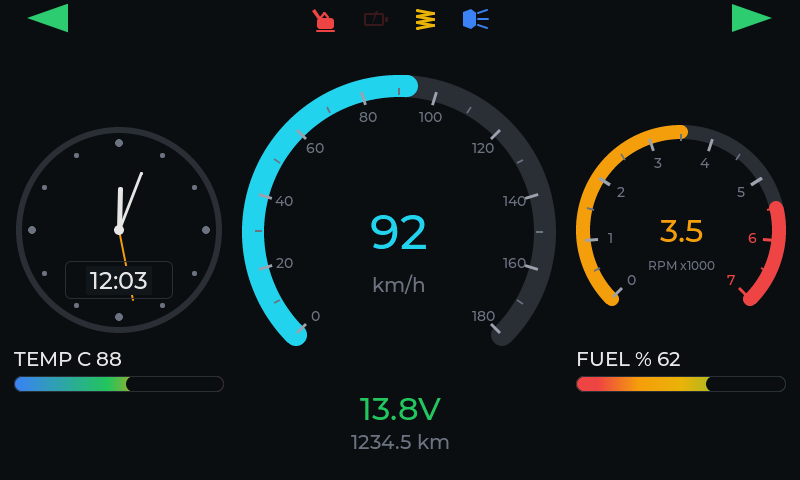
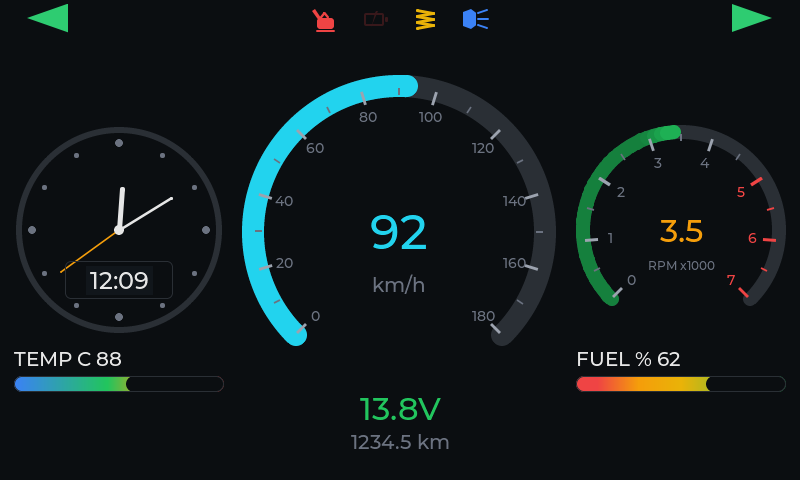
feat(ui): сделать градиент тахометра от тёмно-зелёного

diff --git a/arduino/t3-dash/ui_lvgl.cpp b/arduino/t3-dash/ui_lvgl.cpp
@@ -17,6 +17,7 @@ constexpr uint32_t COL_CYAN = 0x22D3EE;
 constexpr uint32_t COL_ORANGE = 0xF59E0B;
 constexpr uint32_t COL_RED = 0xEF4444;
 constexpr uint32_t COL_GREEN = 0x22C55E;
+constexpr uint32_t COL_DARK_GREEN = 0x15803D;
 constexpr uint32_t COL_YELLOW = 0xEAB308;
 constexpr uint32_t COL_BLUE = 0x3B82F6;
 constexpr uint32_t COL_TICK = 0x9CA3AF;
@@ -35,6 +36,9 @@ struct Gauge {
   lv_obj_t* value = nullptr;
   int32_t max = 0;
   bool div1000 = false;
+  int segmentCount = 0;
+  float segmentStep = 0.0f;
+  lv_obj_t* segments[80] = {};
 };
 
 Gauge g_speed;
@@ -123,11 +127,52 @@ void addTick(lv_obj_t* parent, int size, int cx, int cy, float angleDeg, int rIn
   lv_obj_clear_flag(line, LV_OBJ_FLAG_CLICKABLE);
 }
 
+uint32_t lerpColor(uint32_t from, uint32_t to, float t) {
+  if (t < 0.0f) {
+    t = 0.0f;
+  }
+  if (t > 1.0f) {
+    t = 1.0f;
+  }
+  const int r1 = (from >> 16) & 0xFF;
+  const int g1 = (from >> 8) & 0xFF;
+  const int b1 = from & 0xFF;
+  const int r2 = (to >> 16) & 0xFF;
+  const int g2 = (to >> 8) & 0xFF;
+  const int b2 = to & 0xFF;
+  const int r = r1 + (int)((r2 - r1) * t);
+  const int g = g1 + (int)((g2 - g1) * t);
+  const int b = b1 + (int)((b2 - b1) * t);
+  return (uint32_t)((r << 16) | (g << 8) | b);
+}
+
+uint32_t rpmColor(float value) {
+  if (value <= 3000.0f) {
+    return COL_DARK_GREEN;
+  }
+  if (value >= 5000.0f) {
+    return COL_RED;
+  }
+  if (value < 3500.0f) {
+    return lerpColor(COL_DARK_GREEN, COL_GREEN, (value - 3000.0f) / 500.0f);
+  }
+  if (value < 4000.0f) {
+    return lerpColor(COL_GREEN, COL_YELLOW, (value - 3500.0f) / 500.0f);
+  }
+  if (value < 4500.0f) {
+    return lerpColor(COL_YELLOW, COL_ORANGE, (value - 4000.0f) / 500.0f);
+  }
+  return lerpColor(COL_ORANGE, COL_RED, (value - 4500.0f) / 500.0f);
+}
+
 Gauge createGauge(lv_obj_t* parent, int x, int y, int size, const char* title,
                   const char* unit, int32_t max, uint32_t accent, float redlineFrac,
                   float tickStep, float labelStep, bool div1000, int arcWidth,
                   const lv_font_t* valueFont, const lv_font_t* titleFont,
-                  const lv_font_t* unitFont) {
+                  const lv_font_t* unitFont, bool segmentedFill = false,
+                  float segStart = 0.0f, float segEnd = 0.0f, uint32_t segFrom = 0,
+                  uint32_t segTo = 0, float segStep = 0.0f,
+                  uint32_t (*colorFn)(float) = nullptr) {
   lv_obj_t* box = lv_obj_create(parent);
   lv_obj_remove_style_all(box);
   lv_obj_set_size(box, size, size);
@@ -135,6 +180,10 @@ Gauge createGauge(lv_obj_t* parent, int x, int y, int size, const char* title,
   lv_obj_set_style_bg_opa(box, LV_OPA_TRANSP, 0);
   lv_obj_clear_flag(box, LV_OBJ_FLAG_SCROLLABLE);
   lv_obj_clear_flag(box, LV_OBJ_FLAG_CLICKABLE);
+
+  Gauge g;
+  g.max = max;
+  g.div1000 = div1000;
 
   lv_obj_t* arc = lv_arc_create(box);
   lv_obj_set_size(arc, size, size);
@@ -149,8 +198,13 @@ Gauge createGauge(lv_obj_t* parent, int x, int y, int size, const char* title,
   lv_obj_set_style_arc_rounded(arc, true, LV_PART_INDICATOR);
   lv_obj_set_style_opa(arc, LV_OPA_TRANSP, LV_PART_KNOB);
   lv_obj_clear_flag(arc, LV_OBJ_FLAG_CLICKABLE);
+  g.arc = arc;
 
-  if (redlineFrac > 0.0f) {
+  if (segmentedFill) {
+    lv_obj_set_style_arc_opa(arc, LV_OPA_TRANSP, LV_PART_INDICATOR);
+  }
+
+  if (!segmentedFill && redlineFrac > 0.0f) {
     lv_obj_t* red = lv_arc_create(box);
     lv_obj_set_size(red, size, size);
     lv_obj_center(red);
@@ -162,6 +216,40 @@ Gauge createGauge(lv_obj_t* parent, int x, int y, int size, const char* title,
     lv_obj_set_style_arc_opa(red, LV_OPA_TRANSP, LV_PART_INDICATOR);
     lv_obj_set_style_opa(red, LV_OPA_TRANSP, LV_PART_KNOB);
     lv_obj_clear_flag(red, LV_OBJ_FLAG_CLICKABLE);
+  }
+
+  if (segmentedFill && segStep > 0.0f) {
+    const int total = (int)((float)max / segStep + 0.5f);
+    for (int i = 0; i < total && g.segmentCount < 80; ++i) {
+      const float startValue = i * segStep;
+      const float endValue = fminf((i + 1) * segStep, (float)max);
+      const float startAngle = 135.0f + 270.0f * (startValue / (float)max);
+      const float endAngle = 135.0f + 270.0f * (endValue / (float)max);
+      const float midValue = (startValue + endValue) * 0.5f;
+
+      uint32_t color = segTo;
+      if (colorFn != nullptr) {
+        color = colorFn(midValue);
+      } else if (midValue <= segStart) {
+        color = segFrom;
+      } else if (midValue < segEnd) {
+        color = lerpColor(segFrom, segTo, (midValue - segStart) / (segEnd - segStart));
+      }
+
+      lv_obj_t* segment = lv_arc_create(box);
+      lv_obj_set_size(segment, size, size);
+      lv_obj_center(segment);
+      lv_arc_set_bg_angles(segment, (int32_t)startAngle, (int32_t)endAngle);
+      lv_obj_set_style_arc_width(segment, arcWidth, LV_PART_MAIN);
+      lv_obj_set_style_arc_color(segment, lv_color_hex(color), LV_PART_MAIN);
+      lv_obj_set_style_arc_rounded(segment, true, LV_PART_MAIN);
+      lv_obj_set_style_arc_opa(segment, LV_OPA_TRANSP, LV_PART_INDICATOR);
+      lv_obj_set_style_opa(segment, LV_OPA_TRANSP, LV_PART_KNOB);
+      lv_obj_clear_flag(segment, LV_OBJ_FLAG_CLICKABLE);
+      lv_obj_add_flag(segment, LV_OBJ_FLAG_HIDDEN);
+      g.segments[g.segmentCount++] = segment;
+    }
+    g.segmentStep = segStep;
   }
 
   const int tickCount = (int)((float)max / tickStep + 0.5f);
@@ -210,11 +298,7 @@ Gauge createGauge(lv_obj_t* parent, int x, int y, int size, const char* title,
     lv_obj_align(unitLabel, LV_ALIGN_CENTER, 0, (int)(size * 0.17f));
   }
 
-  Gauge g;
-  g.arc = arc;
   g.value = valueLabel;
-  g.max = max;
-  g.div1000 = div1000;
   return g;
 }
 
@@ -325,9 +409,29 @@ void updateGauge(Gauge& g, float value, bool valid, uint32_t accent) {
   if (arcValue > g.max) {
     arcValue = g.max;
   }
-  lv_arc_set_value(g.arc, arcValue);
-  lv_obj_set_style_arc_color(g.arc, lv_color_hex(valid ? accent : COL_TRACK),
-                             LV_PART_INDICATOR);
+  if (g.segmentCount > 0) {
+    int visible = 0;
+    if (valid && g.segmentStep > 0.0f) {
+      visible = (int)(value / g.segmentStep);
+    }
+    if (visible < 0) {
+      visible = 0;
+    }
+    if (visible > g.segmentCount) {
+      visible = g.segmentCount;
+    }
+    for (int i = 0; i < g.segmentCount; ++i) {
+      if (i < visible) {
+        lv_obj_clear_flag(g.segments[i], LV_OBJ_FLAG_HIDDEN);
+      } else {
+        lv_obj_add_flag(g.segments[i], LV_OBJ_FLAG_HIDDEN);
+      }
+    }
+  } else {
+    lv_arc_set_value(g.arc, arcValue);
+    lv_obj_set_style_arc_color(g.arc, lv_color_hex(valid ? accent : COL_TRACK),
+                               LV_PART_INDICATOR);
+  }
 
   char text[24];
   if (!valid) {
@@ -675,9 +779,10 @@ void init() {
                         &lv_font_montserrat_24, &lv_font_montserrat_20);
 
   g_rpm = createGauge(screen, 576, 125, SIDE_SIZE, "", "RPM x1000", 7000, COL_ORANGE,
-                      5500.0f / 7000.0f, 500.0f, 1000.0f, true, 14,
+                      5000.0f / 7000.0f, 500.0f, 1000.0f, true, 14,
                       &lv_font_montserrat_32, &lv_font_montserrat_12,
-                      &lv_font_montserrat_12);
+                      &lv_font_montserrat_12, true, 3000.0f, 5000.0f, COL_DARK_GREEN,
+                      COL_RED, 100.0f, rpmColor);
 
   g_voltage = makeLabel(screen, "--.-V", &lv_font_montserrat_32, COL_GREEN);
   lv_obj_align(g_voltage, LV_ALIGN_CENTER, 0, 168);

diff --git a/src/ui/lvgl/ui_lvgl.cpp b/src/ui/lvgl/ui_lvgl.cpp
@@ -17,6 +17,7 @@ constexpr uint32_t COL_CYAN = 0x22D3EE;
 constexpr uint32_t COL_ORANGE = 0xF59E0B;
 constexpr uint32_t COL_RED = 0xEF4444;
 constexpr uint32_t COL_GREEN = 0x22C55E;
+constexpr uint32_t COL_DARK_GREEN = 0x15803D;
 constexpr uint32_t COL_YELLOW = 0xEAB308;
 constexpr uint32_t COL_BLUE = 0x3B82F6;
 constexpr uint32_t COL_TICK = 0x9CA3AF;
@@ -35,6 +36,9 @@ struct Gauge {
   lv_obj_t* value = nullptr;
   int32_t max = 0;
   bool div1000 = false;
+  int segmentCount = 0;
+  float segmentStep = 0.0f;
+  lv_obj_t* segments[80] = {};
 };
 
 Gauge g_speed;
@@ -123,11 +127,52 @@ void addTick(lv_obj_t* parent, int size, int cx, int cy, float angleDeg, int rIn
   lv_obj_clear_flag(line, LV_OBJ_FLAG_CLICKABLE);
 }
 
+uint32_t lerpColor(uint32_t from, uint32_t to, float t) {
+  if (t < 0.0f) {
+    t = 0.0f;
+  }
+  if (t > 1.0f) {
+    t = 1.0f;
+  }
+  const int r1 = (from >> 16) & 0xFF;
+  const int g1 = (from >> 8) & 0xFF;
+  const int b1 = from & 0xFF;
+  const int r2 = (to >> 16) & 0xFF;
+  const int g2 = (to >> 8) & 0xFF;
+  const int b2 = to & 0xFF;
+  const int r = r1 + (int)((r2 - r1) * t);
+  const int g = g1 + (int)((g2 - g1) * t);
+  const int b = b1 + (int)((b2 - b1) * t);
+  return (uint32_t)((r << 16) | (g << 8) | b);
+}
+
+uint32_t rpmColor(float value) {
+  if (value <= 3000.0f) {
+    return COL_DARK_GREEN;
+  }
+  if (value >= 5000.0f) {
+    return COL_RED;
+  }
+  if (value < 3500.0f) {
+    return lerpColor(COL_DARK_GREEN, COL_GREEN, (value - 3000.0f) / 500.0f);
+  }
+  if (value < 4000.0f) {
+    return lerpColor(COL_GREEN, COL_YELLOW, (value - 3500.0f) / 500.0f);
+  }
+  if (value < 4500.0f) {
+    return lerpColor(COL_YELLOW, COL_ORANGE, (value - 4000.0f) / 500.0f);
+  }
+  return lerpColor(COL_ORANGE, COL_RED, (value - 4500.0f) / 500.0f);
+}
+
 Gauge createGauge(lv_obj_t* parent, int x, int y, int size, const char* title,
                   const char* unit, int32_t max, uint32_t accent, float redlineFrac,
                   float tickStep, float labelStep, bool div1000, int arcWidth,
                   const lv_font_t* valueFont, const lv_font_t* titleFont,
-                  const lv_font_t* unitFont) {
+                  const lv_font_t* unitFont, bool segmentedFill = false,
+                  float segStart = 0.0f, float segEnd = 0.0f, uint32_t segFrom = 0,
+                  uint32_t segTo = 0, float segStep = 0.0f,
+                  uint32_t (*colorFn)(float) = nullptr) {
   lv_obj_t* box = lv_obj_create(parent);
   lv_obj_remove_style_all(box);
   lv_obj_set_size(box, size, size);
@@ -135,6 +180,10 @@ Gauge createGauge(lv_obj_t* parent, int x, int y, int size, const char* title,
   lv_obj_set_style_bg_opa(box, LV_OPA_TRANSP, 0);
   lv_obj_clear_flag(box, LV_OBJ_FLAG_SCROLLABLE);
   lv_obj_clear_flag(box, LV_OBJ_FLAG_CLICKABLE);
+
+  Gauge g;
+  g.max = max;
+  g.div1000 = div1000;
 
   lv_obj_t* arc = lv_arc_create(box);
   lv_obj_set_size(arc, size, size);
@@ -149,8 +198,13 @@ Gauge createGauge(lv_obj_t* parent, int x, int y, int size, const char* title,
   lv_obj_set_style_arc_rounded(arc, true, LV_PART_INDICATOR);
   lv_obj_set_style_opa(arc, LV_OPA_TRANSP, LV_PART_KNOB);
   lv_obj_clear_flag(arc, LV_OBJ_FLAG_CLICKABLE);
+  g.arc = arc;
 
-  if (redlineFrac > 0.0f) {
+  if (segmentedFill) {
+    lv_obj_set_style_arc_opa(arc, LV_OPA_TRANSP, LV_PART_INDICATOR);
+  }
+
+  if (!segmentedFill && redlineFrac > 0.0f) {
     lv_obj_t* red = lv_arc_create(box);
     lv_obj_set_size(red, size, size);
     lv_obj_center(red);
@@ -162,6 +216,40 @@ Gauge createGauge(lv_obj_t* parent, int x, int y, int size, const char* title,
     lv_obj_set_style_arc_opa(red, LV_OPA_TRANSP, LV_PART_INDICATOR);
     lv_obj_set_style_opa(red, LV_OPA_TRANSP, LV_PART_KNOB);
     lv_obj_clear_flag(red, LV_OBJ_FLAG_CLICKABLE);
+  }
+
+  if (segmentedFill && segStep > 0.0f) {
+    const int total = (int)((float)max / segStep + 0.5f);
+    for (int i = 0; i < total && g.segmentCount < 80; ++i) {
+      const float startValue = i * segStep;
+      const float endValue = fminf((i + 1) * segStep, (float)max);
+      const float startAngle = 135.0f + 270.0f * (startValue / (float)max);
+      const float endAngle = 135.0f + 270.0f * (endValue / (float)max);
+      const float midValue = (startValue + endValue) * 0.5f;
+
+      uint32_t color = segTo;
+      if (colorFn != nullptr) {
+        color = colorFn(midValue);
+      } else if (midValue <= segStart) {
+        color = segFrom;
+      } else if (midValue < segEnd) {
+        color = lerpColor(segFrom, segTo, (midValue - segStart) / (segEnd - segStart));
+      }
+
+      lv_obj_t* segment = lv_arc_create(box);
+      lv_obj_set_size(segment, size, size);
+      lv_obj_center(segment);
+      lv_arc_set_bg_angles(segment, (int32_t)startAngle, (int32_t)endAngle);
+      lv_obj_set_style_arc_width(segment, arcWidth, LV_PART_MAIN);
+      lv_obj_set_style_arc_color(segment, lv_color_hex(color), LV_PART_MAIN);
+      lv_obj_set_style_arc_rounded(segment, true, LV_PART_MAIN);
+      lv_obj_set_style_arc_opa(segment, LV_OPA_TRANSP, LV_PART_INDICATOR);
+      lv_obj_set_style_opa(segment, LV_OPA_TRANSP, LV_PART_KNOB);
+      lv_obj_clear_flag(segment, LV_OBJ_FLAG_CLICKABLE);
+      lv_obj_add_flag(segment, LV_OBJ_FLAG_HIDDEN);
+      g.segments[g.segmentCount++] = segment;
+    }
+    g.segmentStep = segStep;
   }
 
   const int tickCount = (int)((float)max / tickStep + 0.5f);
@@ -210,11 +298,7 @@ Gauge createGauge(lv_obj_t* parent, int x, int y, int size, const char* title,
     lv_obj_align(unitLabel, LV_ALIGN_CENTER, 0, (int)(size * 0.17f));
   }
 
-  Gauge g;
-  g.arc = arc;
   g.value = valueLabel;
-  g.max = max;
-  g.div1000 = div1000;
   return g;
 }
 
@@ -325,9 +409,29 @@ void updateGauge(Gauge& g, float value, bool valid, uint32_t accent) {
   if (arcValue > g.max) {
     arcValue = g.max;
   }
-  lv_arc_set_value(g.arc, arcValue);
-  lv_obj_set_style_arc_color(g.arc, lv_color_hex(valid ? accent : COL_TRACK),
-                             LV_PART_INDICATOR);
+  if (g.segmentCount > 0) {
+    int visible = 0;
+    if (valid && g.segmentStep > 0.0f) {
+      visible = (int)(value / g.segmentStep);
+    }
+    if (visible < 0) {
+      visible = 0;
+    }
+    if (visible > g.segmentCount) {
+      visible = g.segmentCount;
+    }
+    for (int i = 0; i < g.segmentCount; ++i) {
+      if (i < visible) {
+        lv_obj_clear_flag(g.segments[i], LV_OBJ_FLAG_HIDDEN);
+      } else {
+        lv_obj_add_flag(g.segments[i], LV_OBJ_FLAG_HIDDEN);
+      }
+    }
+  } else {
+    lv_arc_set_value(g.arc, arcValue);
+    lv_obj_set_style_arc_color(g.arc, lv_color_hex(valid ? accent : COL_TRACK),
+                               LV_PART_INDICATOR);
+  }
 
   char text[24];
   if (!valid) {
@@ -675,9 +779,10 @@ void init() {
                         &lv_font_montserrat_24, &lv_font_montserrat_20);
 
   g_rpm = createGauge(screen, 576, 125, SIDE_SIZE, "", "RPM x1000", 7000, COL_ORANGE,
-                      5500.0f / 7000.0f, 500.0f, 1000.0f, true, 14,
+                      5000.0f / 7000.0f, 500.0f, 1000.0f, true, 14,
                       &lv_font_montserrat_32, &lv_font_montserrat_12,
-                      &lv_font_montserrat_12);
+                      &lv_font_montserrat_12, true, 3000.0f, 5000.0f, COL_DARK_GREEN,
+                      COL_RED, 100.0f, rpmColor);
 
   g_voltage = makeLabel(screen, "--.-V", &lv_font_montserrat_32, COL_GREEN);
   lv_obj_align(g_voltage, LV_ALIGN_CENTER, 0, 168);
